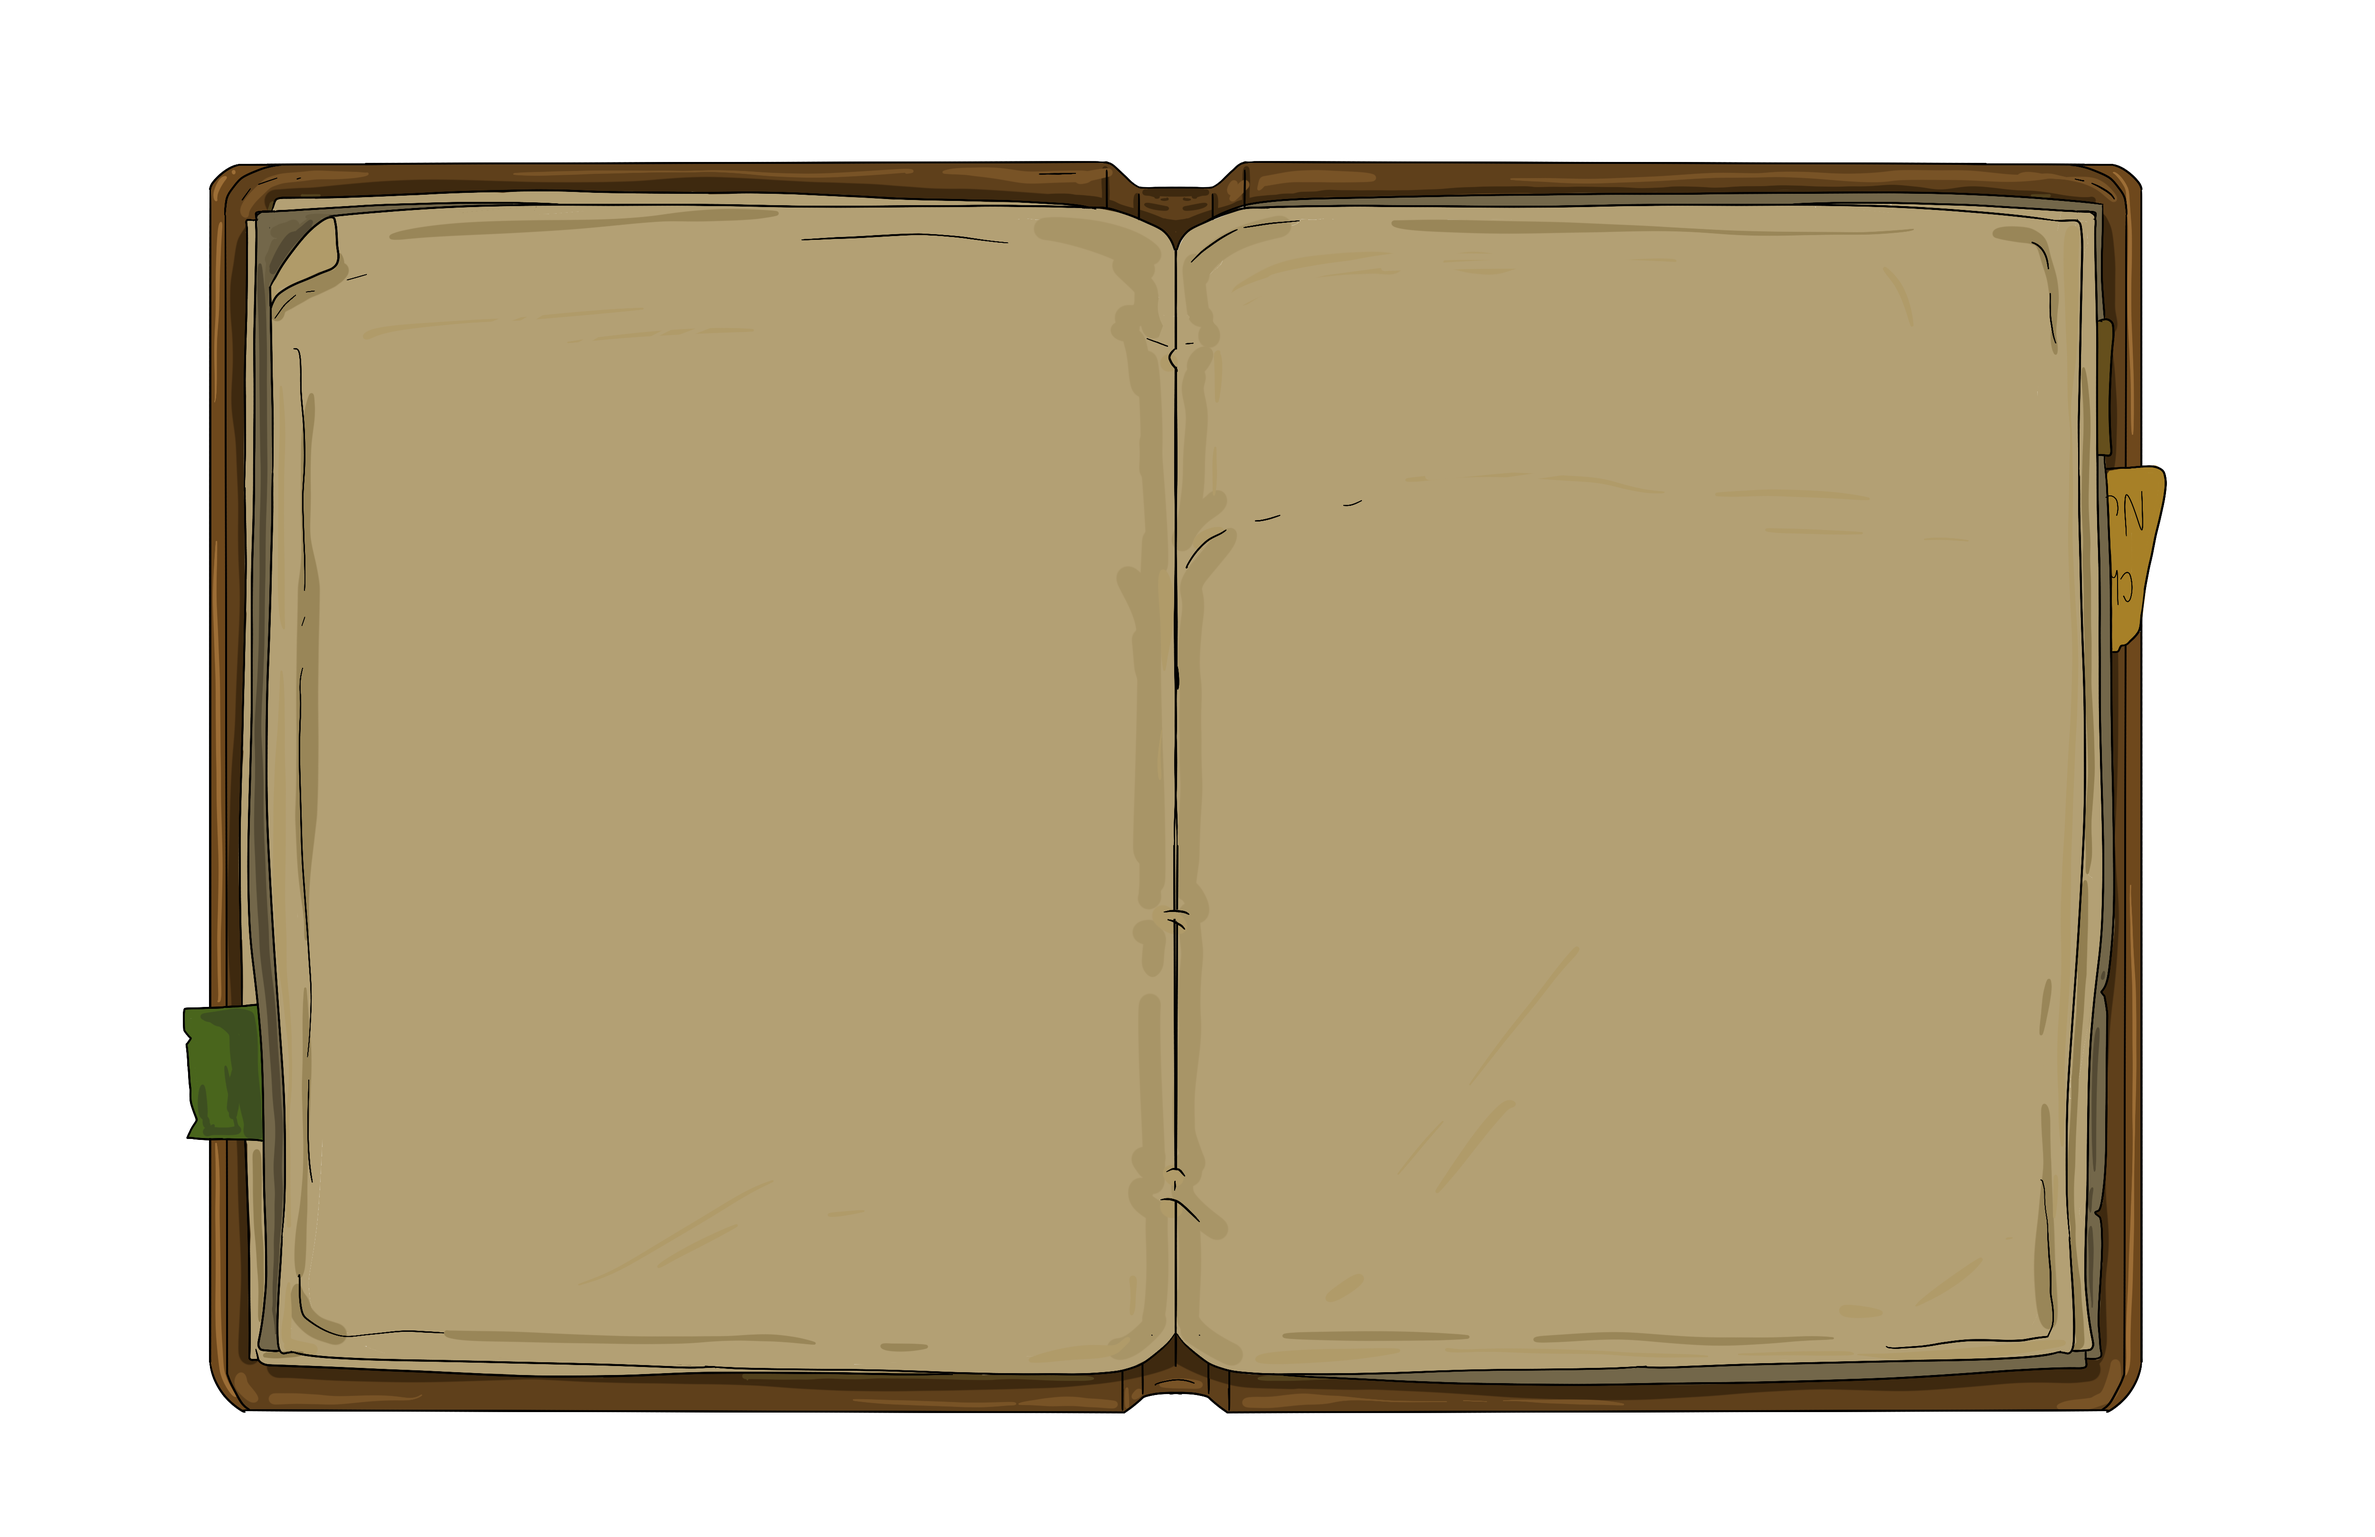
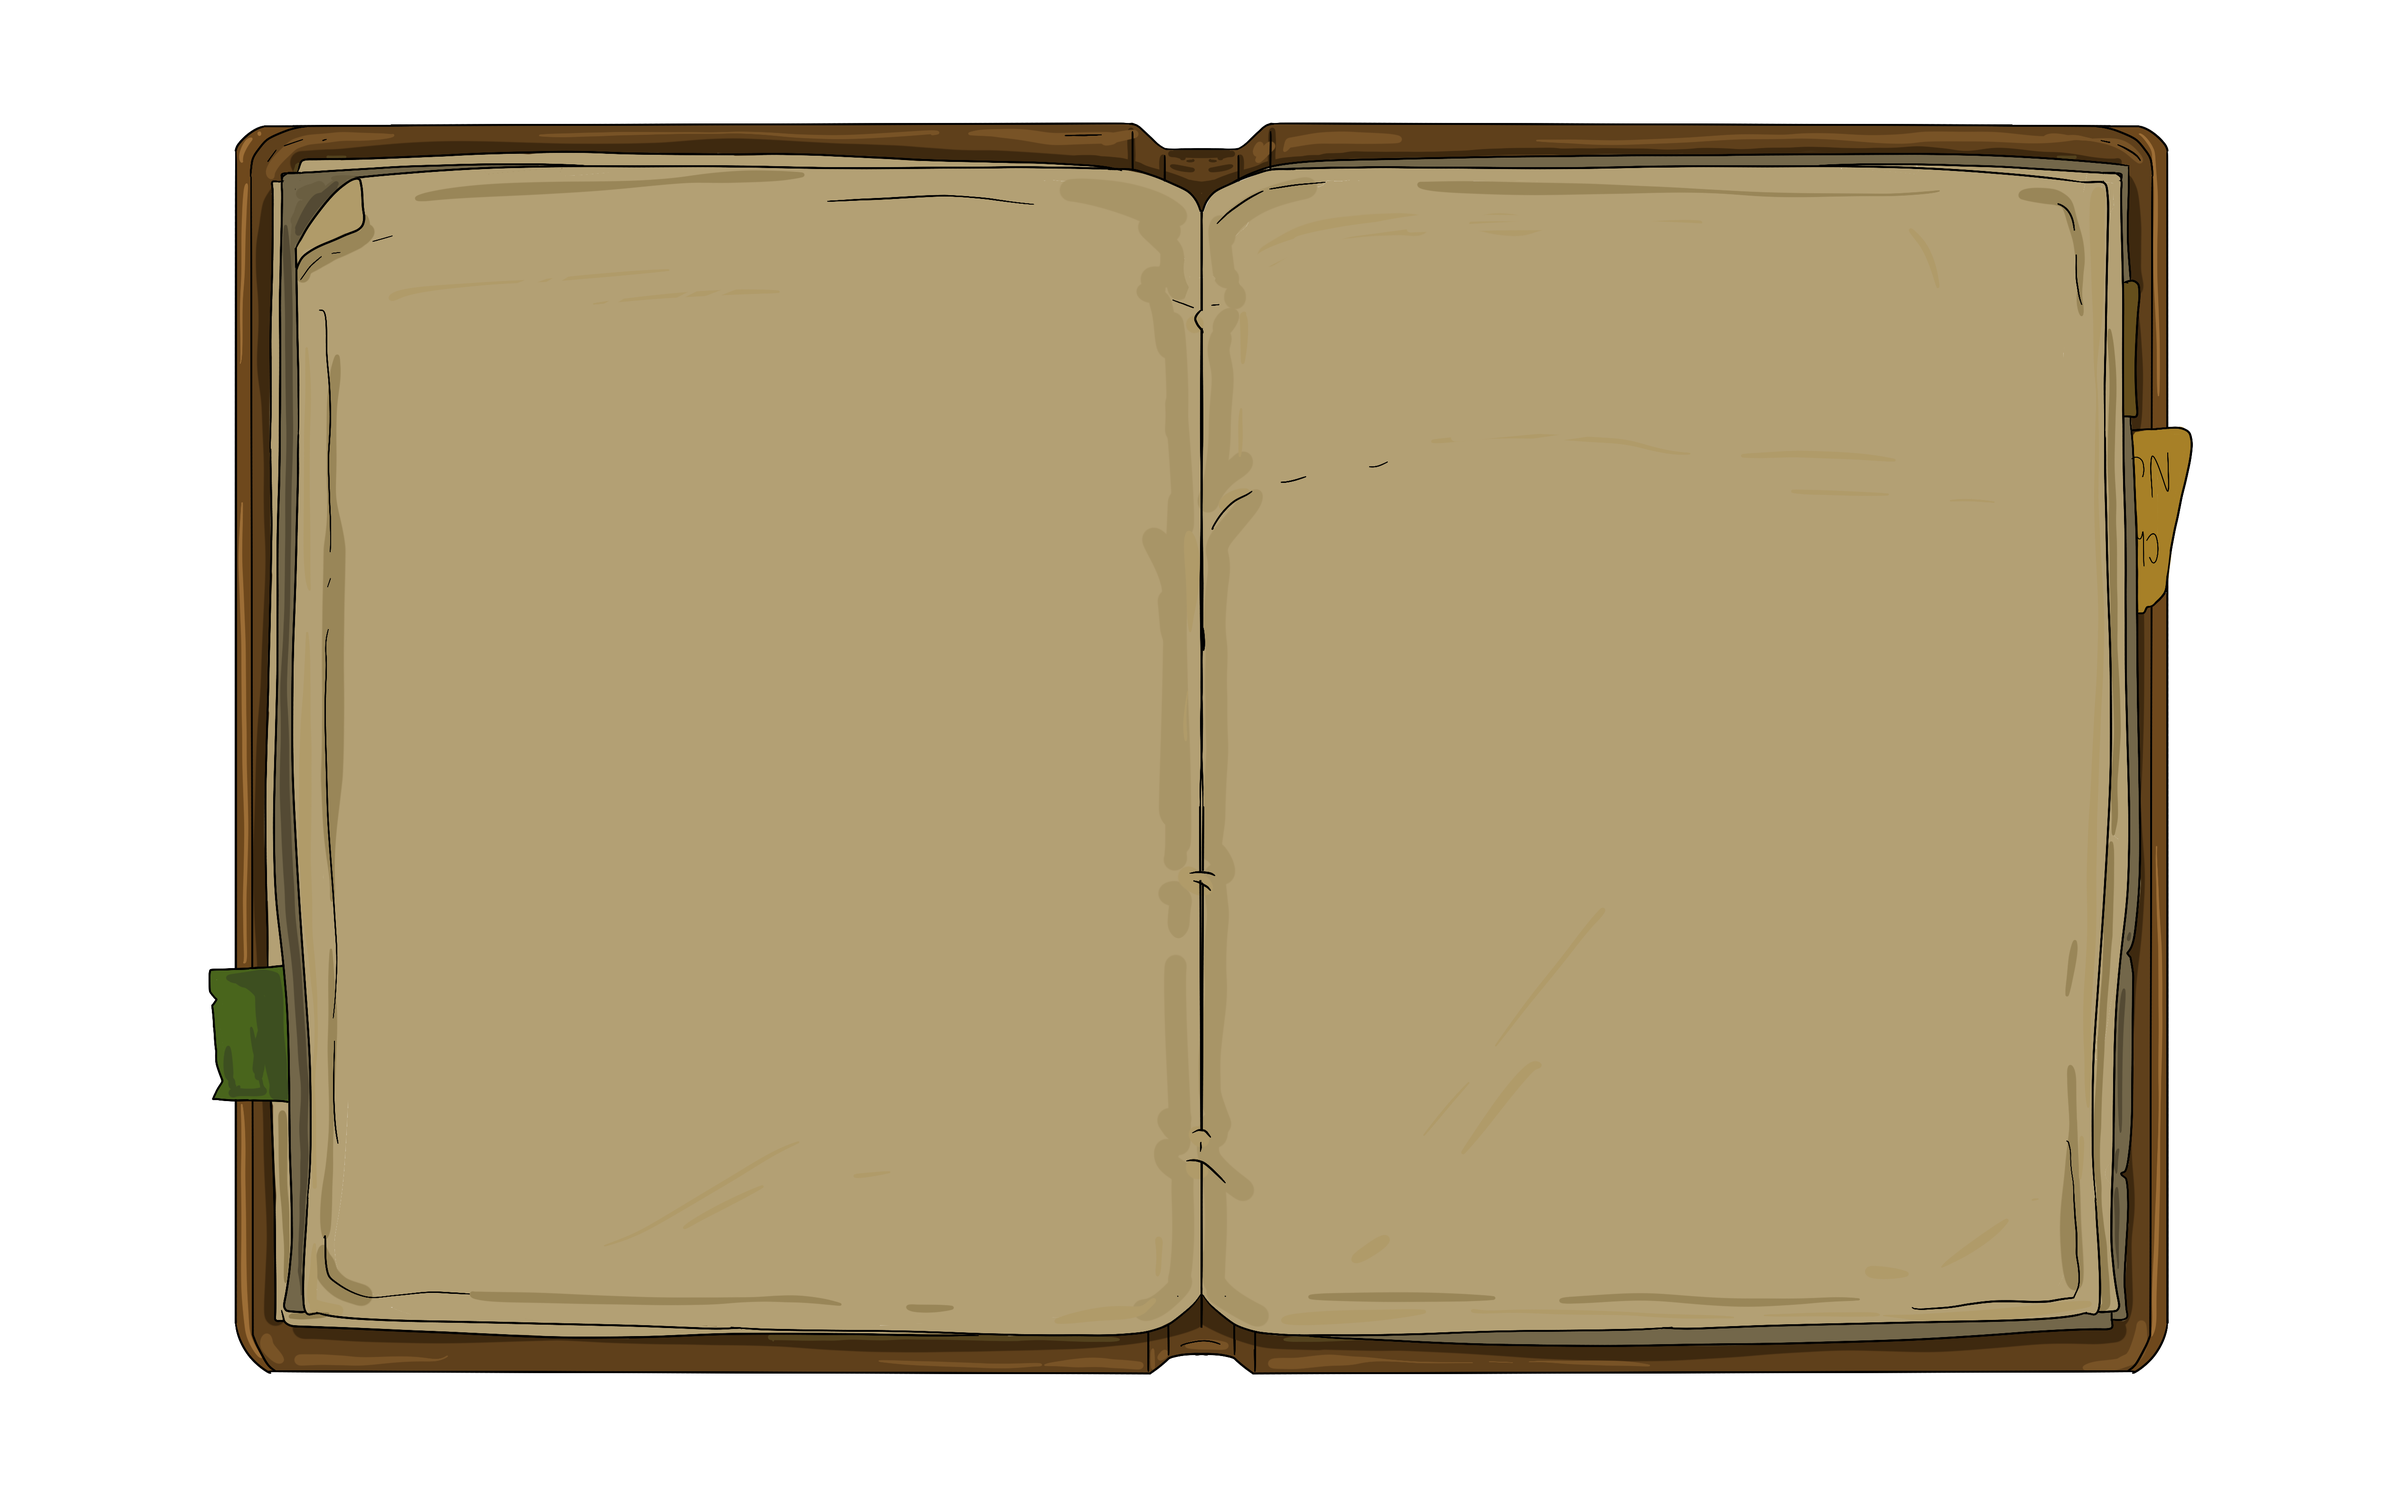
Update Field Notes 1 and add Field Notes 2 to gallery

Changed region(s): [[0.0624, 0.0621, 0.936, 0.9319]]

diff --git a/src/components/field-notes.tsx b/src/components/field-notes.tsx
@@ -14,7 +14,7 @@ const ICON_COLUMN_RIGHT_EDGE = 132;
 
 const FIELD_NOTES_IMAGES = [
   "/images/Field Notes 1.png",
-  // Add more images here: "/images/Field Notes 2.png", etc.
+  "/images/Field Notes 2.png",
 ];
 
 function NotebookIcon() {
